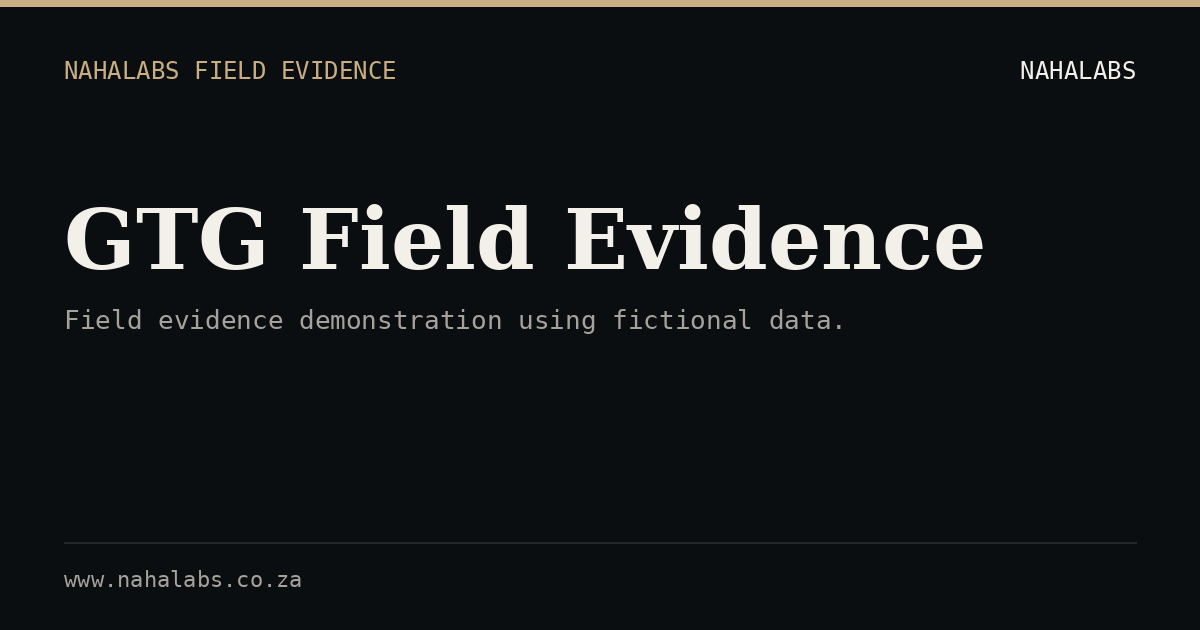
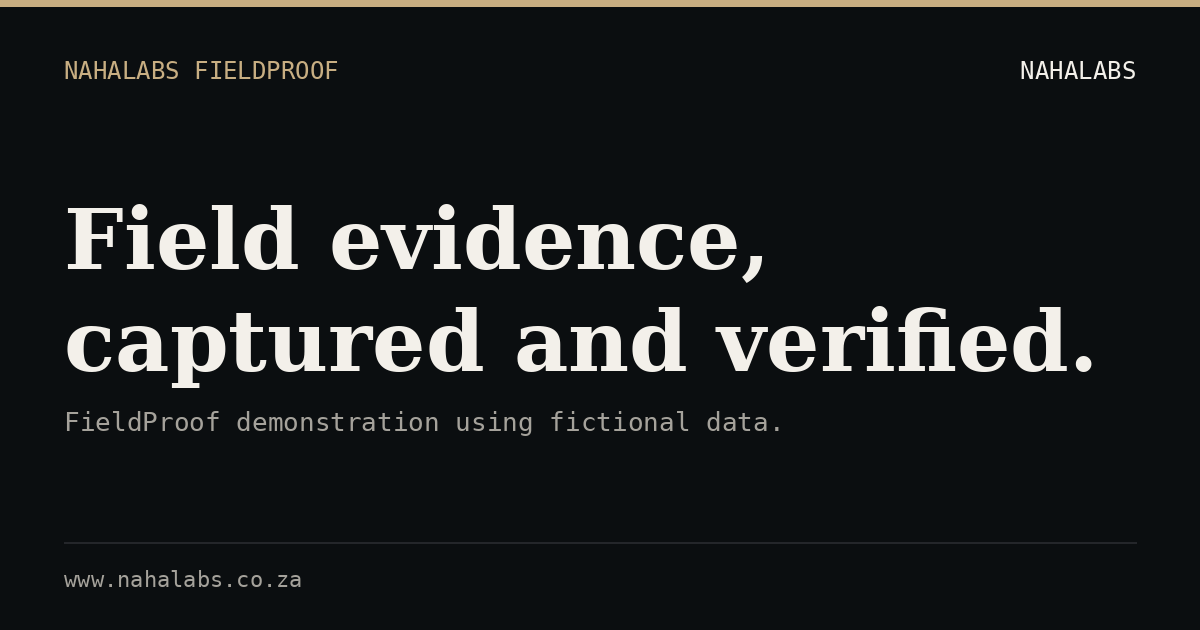
Rebrand GTG -> FieldProof, complete footer apps list
- /gtg page title, h1, iframe header now 'FieldProof' (URL unchanged)
- prerender route title + description updated
- footer Apps: GTG Field Evidence -> FieldProof; adds missing RevenueDesk and BankBook
- regenerated og share card for /gtg

diff --git a/src/components/Footer.tsx b/src/components/Footer.tsx
@@ -236,9 +236,11 @@ export const Footer: React.FC<FooterProps> = ({
             <h2 className="text-sm font-semibold text-fg">Apps</h2>
             <ul className="mt-4 flex flex-col">
               {[
+                ['/revenuedesk', 'RevenueDesk'],
+                ['/bankbook', 'BankBook'],
                 ['/cargo-iq', 'CargoIQ'],
                 ['/nutri-tummies', 'Nutri Tummies'],
-                ['/gtg', 'GTG Field Evidence'],
+                ['/gtg', 'FieldProof'],
                 ['/railwatch', 'RailWatch'],
                 ['/netpulse', 'NetPulse (demo)'],
               ].map(([href, label]) => (

diff --git a/src/components/AppFramePage.tsx b/src/components/AppFramePage.tsx
@@ -4,7 +4,7 @@ export const LIVE_APPS: { path: string; name: string; url: string; notice?: stri
   { path: '/railwatch', name: 'RailWatch', url: 'https://naha-railwatch.onrender.com/' },
   { path: '/cargo-iq', name: 'CargoIQ', url: 'https://cargo-iq.lovable.app/' },
   { path: '/nutri-tummies', name: 'Nutri Tummies', url: 'https://nutri-tummies.lovable.app/' },
-  { path: '/gtg', name: 'GTG Field Evidence', url: 'https://gtg-field-evidence-demo.onrender.com/' },
+  { path: '/gtg', name: 'FieldProof', url: 'https://gtg-field-evidence-demo.onrender.com/' },
   {
     path: '/netpulse',
     name: 'NetPulse',

diff --git a/scripts/generate-og-images.py b/scripts/generate-og-images.py
@@ -29,7 +29,7 @@ CARDS = [
     ('bankbook', 'NAHALABS BANKBOOK', 'Invoice & bank review desk.', 'Check extracted invoice data against its source. Live demo on fictional data.'),
     ('cargo-iq', 'NAHALABS CARGOIQ', 'Freight evidence and dispute intelligence.', 'Operational evidence, commercial rules, financial exposure.'),
     ('nutri-tummies', 'NAHALABS NUTRI TUMMIES', 'Family meal planning for SA kitchens.', 'A NahaLabs product demonstration.'),
-    ('gtg', 'NAHALABS FIELD EVIDENCE', 'GTG Field Evidence', 'Field evidence demonstration using fictional data.'),
+    ('gtg', 'NAHALABS FIELDPROOF', 'Field evidence, captured and verified.', 'FieldProof demonstration using fictional data.'),
     ('railwatch', 'NAHALABS RAILWATCH', 'Rail operations prototype.', 'A NahaLabs prototype and demonstration.'),
     ('revenue-leak-audit-johannesburg', 'FREE AUDIT - JOHANNESBURG', 'Where is your website losing enquiries?', 'Free website revenue leak audit from NahaLabs.'),
 ]
